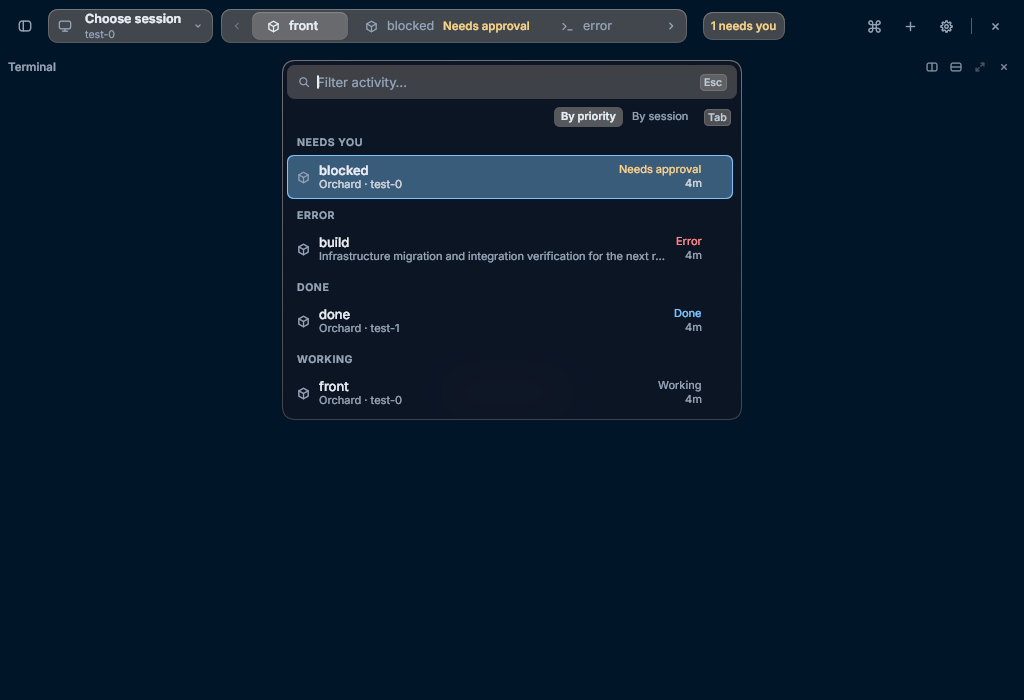
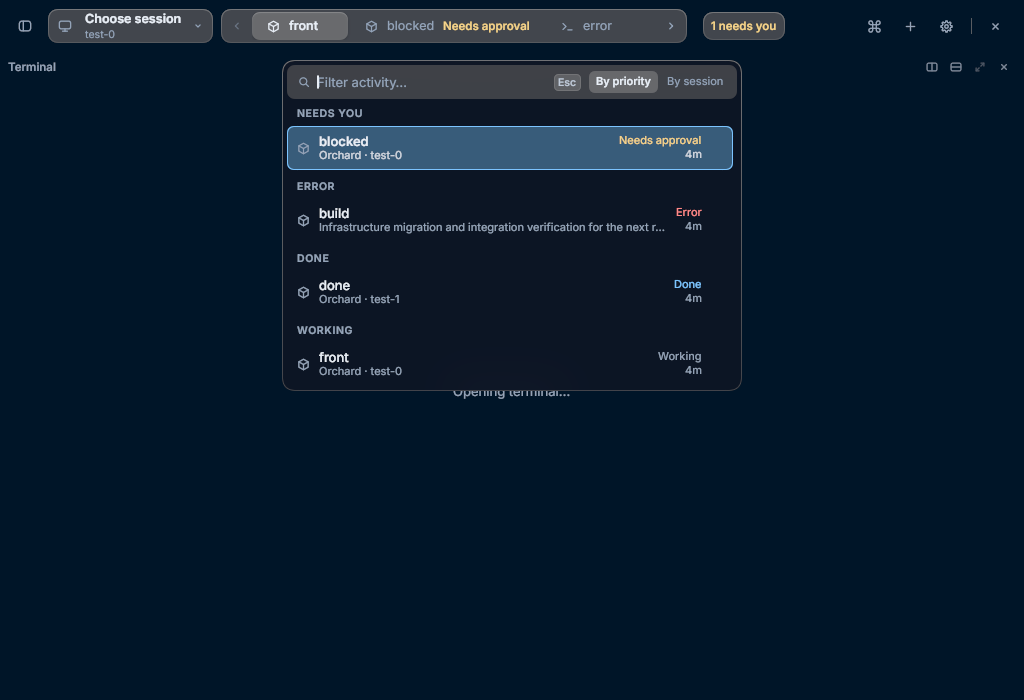
Put the grouping beside the filter; only plain Tab switches it; review fixes

Changed region(s): [[0.2812, 0.09, 0.7188, 0.6], [0.4375, 0.54, 0.5625, 0.57]]

diff --git a/src/app/popups.rs b/src/app/popups.rs
@@ -165,6 +165,60 @@ pub fn target_outline(s: &Workspace) -> Option<El> {
     )
 }
 
+/// The Activity list's grouping, as two small text choices: the current one marked, the
+/// other a press away. Tab switches them from the filter, and a press never takes its focus.
+fn activity_view(s: &Workspace) -> El {
+    use rex_rune::settings::ActivityView;
+    let view = s.settings.activity_view;
+    let choice = |key: &str, label: &str, target: ActivityView| {
+        let on = view == target;
+        let mut cell = row()
+            .key(key.to_owned())
+            .role("radio")
+            .label(label.to_owned())
+            .help(format!("{label} · Tab"))
+            .focus_selected(on)
+            .h(22.)
+            .px(7.)
+            .center()
+            .radius(6.)
+            .continuous_corners()
+            .hover_group()
+            .preserve_focus_on_press(true)
+            .tab_index(-1)
+            .on_press_tx(move |s: &mut Workspace, tx: &mut Tx| {
+                s.set_activity_view(target);
+                tx.instant();
+            });
+        let mut word = text(label.to_owned())
+            .font(if on { medium(11.) } else { ui(11.) })
+            .color(rgb(if on { ink() } else { muted() }));
+        if on {
+            cell = cell.fill(white(0.09));
+        } else {
+            word = word.group_color(rgb(ink()));
+            cell = cell.cursor(rune::Cursor::Pointer).hover(white(0.05));
+        }
+        cell.child(word)
+    };
+    row()
+        .key("activity-view")
+        .role("radiogroup")
+        .label("Group activity")
+        .gap(2.)
+        .mr(4.)
+        .child(choice(
+            "activity-view-priority",
+            "By priority",
+            ActivityView::Priority,
+        ))
+        .child(choice(
+            "activity-view-session",
+            "By session",
+            ActivityView::Session,
+        ))
+}
+
 pub fn list_popup(s: &Workspace, viewport: [f32; 2]) -> El {
     let k = kit();
     let panel = s.panel.as_ref().expect("list panel");
@@ -611,82 +665,23 @@ pub fn list_popup(s: &Workspace, viewport: [f32; 2]) -> El {
                         .width(None)
                         .build(k)
                         .key("popup-search")
-                        .w_full(),
-                ),
+                        .grow(1.)
+                        .shrink()
+                        .min_w(0.),
+                )
+                // Activity's grouping sits at the end of its filter row, so the coverage
+                // line under it keeps the whole width for what it has to say.
+                .children(activity.then(|| activity_view(s))),
         );
     }
-    if activity {
-        // One line under the filter: what the list may be missing, and how it is grouped.
-        // It is always there now (it used to appear only with something to say), so the
-        // rows start 28 pt lower when coverage is complete; the list's height budget
-        // already allowed for it.
-        let coverage = s.activity_coverage();
-        let view = s.settings.activity_view;
-        let choice = |key: &str, label: &str, target: rex_rune::settings::ActivityView| {
-            let on = view == target;
-            let mut cell = row()
-                .key(key.to_owned())
-                .role("radio")
-                .label(label.to_owned())
-                .focus_selected(on)
-                .h(20.)
-                .px(7.)
-                .center()
-                .radius(6.)
-                .continuous_corners()
-                .hover_group()
-                .preserve_focus_on_press(true)
-                .tab_index(-1)
-                .on_press_tx(move |s: &mut Workspace, tx: &mut Tx| {
-                    s.set_activity_view(target);
-                    tx.instant();
-                });
-            let mut word = text(label.to_owned())
-                .font(if on { medium(11.) } else { ui(11.) })
-                .color(rgb(if on { ink() } else { muted() }));
-            if on {
-                cell = cell.fill(white(0.09));
-            } else {
-                word = word.group_color(rgb(ink()));
-                cell = cell.cursor(rune::Cursor::Pointer).hover(white(0.05));
-            }
-            cell.child(word)
-        };
+    let coverage = s.activity_coverage();
+    if activity && !coverage.is_empty() {
         surface = surface.child(
             row()
-                .key("activity-line")
                 .h(28.)
-                .pl(10.)
-                .pr(6.)
-                .gap(8.)
+                .px(10.)
                 .center_y()
-                .child(
-                    text(coverage.clone())
-                        .font(ui(11.))
-                        .color(rgb(muted()))
-                        .truncate()
-                        .help_when_truncated(coverage)
-                        .grow(1.)
-                        .shrink(),
-                )
-                .child(
-                    row()
-                        .key("activity-view")
-                        .role("radiogroup")
-                        .label("Group activity")
-                        .gap(2.)
-                        .child(choice(
-                            "activity-view-priority",
-                            "By priority",
-                            rex_rune::settings::ActivityView::Priority,
-                        ))
-                        .child(choice(
-                            "activity-view-session",
-                            "By session",
-                            rex_rune::settings::ActivityView::Session,
-                        )),
-                )
-                .child(keycap("Tab", false).help("Switch between the two")),
+                .child(text(coverage).font(ui(11.)).color(rgb(muted())).truncate()),
         );
     }
     let mut results = el().w_full().min_h(0.).child(scroller);

diff --git a/src/app/activity_list_tests.rs b/src/app/activity_list_tests.rs
@@ -494,8 +494,82 @@ fn the_switch_in_the_list_shows_the_view_and_a_press_changes_it_without_leaving_
         rx.iter().all(|r| r.is_empty()),
         "a local choice sends nothing"
     );
-    assert!(has(&rt, "activity-line"));
+    // The choices are beside the filter, so the coverage line under it keeps its width.
+    let field = super::pane_verb_tests::rect(&rt, "popup-search");
+    let choices = super::pane_verb_tests::rect(&rt, "activity-view");
+    assert!(
+        choices[0] >= field[0] + field[2] - 0.5 && (choices[1] - field[1]).abs() < 12.,
+        "field {field:?}, choices {choices:?}"
+    );
     std::fs::remove_file(&rt.state.settings_path).unwrap();
+}
+
+#[test]
+fn ctrl_tab_falls_through_the_list_without_changing_the_grouping() {
+    let _families = rune::text::with_families("Inter", "Inter");
+    let (mut ws, _rx) = fixture();
+    ws.show_activity();
+    let mut rt = runtime(ws);
+    settle(&mut rt);
+    for shift in [false, true] {
+        rt.key(KeyEvent {
+            key: Key::Tab,
+            mods: Mods {
+                ctrl: true,
+                cmd: true,
+                shift,
+                ..Default::default()
+            },
+        });
+        settle(&mut rt);
+        assert_eq!(rt.state.settings.activity_view, ActivityView::Priority);
+    }
+    assert!(!rt.state.settings_path.exists(), "and nothing was saved");
+}
+
+#[test]
+fn a_session_is_placed_by_the_most_pressing_row_the_filter_leaves_it() {
+    let (mut ws, _rx) = fixture();
+    ws.settings.activity_view = ActivityView::Session;
+    let groups = |ws: &Workspace, query: &str| {
+        let mut seen: Vec<String> = Vec::new();
+        for entry in ws.activity_entries_at(query, std::time::Instant::now()) {
+            let key = entry.group_key.clone().expect("a session heading");
+            if seen.last() != Some(&key) {
+                seen.push(key);
+            }
+        }
+        seen
+    };
+    // Unfiltered, a session with a tab that needs you comes before one that is only working.
+    let all = groups(&ws, "");
+    let needs = all
+        .iter()
+        .position(|k| k == "activity:0:s")
+        .expect("host 0's session s");
+    let working = all
+        .iter()
+        .position(|k| k == "activity:0:other")
+        .expect("host 0's session other");
+    assert!(needs < working, "{all:?}");
+    // Filtered to working tabs, session s has only its working row left and ranks with it:
+    // it no longer goes first because of rows the filter took away.
+    let filtered = groups(&ws, "working");
+    assert_eq!(
+        filtered,
+        [
+            "activity:0:s",
+            "activity:0:other",
+            "activity:1:s",
+            "activity:1:other"
+        ],
+        "host and session order among equals"
+    );
+    let rows = ws.activity_entries_at("working", std::time::Instant::now());
+    assert!(
+        rows.iter().all(|e| e.detail == "Working"),
+        "only working rows remain"
+    );
 }
 
 #[test]

diff --git a/src/app/input.rs b/src/app/input.rs
@@ -244,8 +244,12 @@ pub fn list_key(s: &mut Workspace, ev: &KeyEvent, tx: &mut Tx) -> bool {
                 .as_ref()
                 .is_some_and(|p| matches!(p.kind, PanelKind::Activity))
             {
-                s.toggle_activity_view();
-                tx.instant();
+                // Plain Tab or Shift Tab only: Ctrl Tab is the next tab across sessions,
+                // and must not rearrange a list it merely fell through to.
+                if !(ev.mods.ctrl || ev.mods.cmd || ev.mods.alt || ev.mods.logo) {
+                    s.toggle_activity_view();
+                    tx.instant();
+                }
             } else if !ev.mods.shift {
                 s.descend_directory();
             }

diff --git a/src/app/actions.rs b/src/app/actions.rs
@@ -883,8 +883,11 @@ pub fn binding_title(binding: &rexrs::api::client::Binding) -> String {
             .replace('_', " ")
     };
     match binding.action.as_str() {
-        "client.activity" if args["view"].as_str().is_some() => {
-            format!("Show activity by {}", args["view"].as_str().unwrap())
+        "client.activity" if matches!(args["view"].as_str(), Some("priority" | "session")) => {
+            format!(
+                "Show activity by {}",
+                args["view"].as_str().unwrap_or_default()
+            )
         }
         "pane.split" => format!("Split {}", direction()),
         "pane.focus" => format!("Focus pane {}", direction()),

diff --git a/DESIGN.md b/DESIGN.md
@@ -74,7 +74,7 @@ Chrome uses Inter (bundled with the kit) in 10–13 pt steps, weights about 450 
 - **Insert path:** Commands → Insert path… opens a 460 pt list near the top, using the standard list field with a folder glyph (a magnifying glass marks search fields only), 28 pt rows, selection outline and captured-pane cue. Its title names the host; the first row inserts the typed path, followed by case-insensitively sorted children with plain Folder/File details. Hidden names appear only with a dot prefix. Up/Down select, Enter or a click inserts once; Tab descends a selected folder (single-field lists already consume Tab), Shift-Tab stays put and Right remains text editing. Escape/outside press closes and returns terminal focus. Inline words report loading, failures and truncated listings; there is no keyboard-hint footer or status dot. Home paths display as `~` and insert as absolute POSIX-shell-quoted paths with no Enter or trailing space. Browsing never claims a pane or sends terminal input. `pane.insert_path` is unbound by default; Commands and Shortcuts use the effective keymap. [Scope and checks](docs/parity-2026-11/M3.1-insert-path.md).
 - **Go to directory:** Commands → Go to directory… is the Insert path popup over folders only: the same field with a folder glyph, rows, selection, Tab descent, captured-pane cue and inline messages, titled “Go to directory · <host>”, its first row “Go to typed folder”. Choosing a row types `cd <quoted absolute folder>` and stops; nothing is run and Enter is never sent, because the prompt's existing text is not visible to the client. `pane.go_to_directory` is unbound by default. [Scope and checks](docs/parity-2026-11/M3.1-go-to-directory.md).
 - **Add host list:** each of its groups (Rex servers, Tailnet, Offline) has an icon before its label. A machine's row is columns that line up down the list: its name, which stays whole and is cut only past the room the other columns need; what the machine calls itself, when that differs, which fades out first; what the check found, ending at one x and cut with an ellipsis (its tooltip has the whole text), trouble such as "Rex check failed" in `WARNING` and first; its system in a 52 pt column; and the chevron. A machine that is already added has an "Added" chip in a column of its own, kept only while the list has one, with the saved hosts' names as its tooltip, and no check mark before its name. Rows under Offline don't repeat the word.
-- **Activity:** Show activity… in Commands opens the shared 460 pt list popup (clamped to the viewport), with a magnifier/filter (matching tab, session, host and state) and one quiet 28 pt line under it. At its left is coverage, only when there is something to say: “Reading activity…” during the per-connection status pass, then “Some activity could not be read.” if reads failed. At its right, always, is the grouping: **By priority** and **By session** as two small text choices (11 pt; the current one `INK` on a 9% white rounded fill, the other `MUTED`, lighting under the pointer) and a `Tab` keycap, since Tab switches them from the filter. Pressing a choice never takes focus from the filter. “1 host is not connected.” (or the plural count) precedes that line while saved hosts are offline, connecting or reconnecting. The connection reads every session once, selected first and the rest paced; new sessions/panes join once. No cap or polling. Queried reports never notify, mark anything seen or latch Done. A clean pass covers unopened sessions, not changes whose live events failed to reach the client; mute and chip visibility rules still apply. By priority, group headings order Needs you, Error, Done, Working; within each, host/session/tab order stays stable. By session, the same filtered rows group under `<session> · <host>` (both names keep their case), sessions ordered by their most pressing remaining row then host/session order, rows within them by priority then server tab order. The redundant place line is omitted in that view, retaining the 44 pt row and trailing state/time. Plain Show activity and the chip remember the view; explicit Commands rows use `client.activity` with optional `view: priority/session`. Popup-local Tab (or Shift-Tab) switches without losing filter text, field focus or the selected tab; no terminal shortcut is reserved. [By-session scope](docs/parity-2026-11/M3.2-activity-by-session.md). Rows are 44 pt: the focused program's existing monochrome glyph, the pill's title above `<session> · <host>`, and a trailing state word (`WARNING` for Needs you, `DANGER` for Error, `ACCENT` for unseen Done, `MUTED` for Working). When known, an 11 pt `MUTED` elapsed label sits below the trailing state word, right-aligned to its existing edge: `now`, `4m`, `2h`, `3d`. Read-back baselines explicitly say `reported 4m`, since the server updates its timestamp on every report. Rows without a known time retain the original single state word and geometry. Only the open list redraws about once a minute, with no animation, status reads or read receipts. [Time meaning and checks](docs/parity-2026-11/M3.2-elapsed-time.md). The on-screen tab is included when working, blocked or in error; muted and idle tabs are absent. The empty list says “Nothing needs you.”; a filter with no hits says “No matching activity.” Seeing a row is not a read receipt. Selection follows the tab across live group changes; Enter/click uses notification navigation and Escape restores pane input. No always-present toolbar button or default key: the conditional Activity chip is another entry point, not a read receipt; opened from it, the list starts on the first tab that is not the one in front. [List evidence](docs/parity-2026-11/M3.2-activity-list.md); [chip scope and evidence](docs/parity-2026-11/M3.2-activity-chip.md).
+- **Activity:** Show activity… in Commands opens the shared 460 pt list popup (clamped to the viewport), with a magnifier/filter (matching tab, session, host and state) with the grouping at the end of the filter row: **By priority** and **By session** as two small text choices (11 pt; the current one `INK` on a 9% white rounded fill, the other `MUTED`, lighting under the pointer). Tab switches them from the filter, and pressing a choice never takes the filter's focus. Under the row is a quiet coverage line only when needed: “Reading activity…” during the per-connection status pass, then “Some activity could not be read.” if reads failed, otherwise no line or reserved space. “1 host is not connected.” (or the plural count) precedes that line while saved hosts are offline, connecting or reconnecting. The connection reads every session once, selected first and the rest paced; new sessions/panes join once. No cap or polling. Queried reports never notify, mark anything seen or latch Done. A clean pass covers unopened sessions, not changes whose live events failed to reach the client; mute and chip visibility rules still apply. By priority, group headings order Needs you, Error, Done, Working; within each, host/session/tab order stays stable. By session, the same filtered rows group under `<session> · <host>` (both names keep their case), sessions ordered by their most pressing remaining row then host/session order, rows within them by priority then server tab order. The redundant place line is omitted in that view, retaining the 44 pt row and trailing state/time. Plain Show activity and the chip remember the view; explicit Commands rows use `client.activity` with optional `view: priority/session`. Popup-local Tab (or Shift-Tab) switches without losing filter text, field focus or the selected tab; no terminal shortcut is reserved. [By-session scope](docs/parity-2026-11/M3.2-activity-by-session.md). Rows are 44 pt: the focused program's existing monochrome glyph, the pill's title above `<session> · <host>`, and a trailing state word (`WARNING` for Needs you, `DANGER` for Error, `ACCENT` for unseen Done, `MUTED` for Working). When known, an 11 pt `MUTED` elapsed label sits below the trailing state word, right-aligned to its existing edge: `now`, `4m`, `2h`, `3d`. Read-back baselines explicitly say `reported 4m`, since the server updates its timestamp on every report. Rows without a known time retain the original single state word and geometry. Only the open list redraws about once a minute, with no animation, status reads or read receipts. [Time meaning and checks](docs/parity-2026-11/M3.2-elapsed-time.md). The on-screen tab is included when working, blocked or in error; muted and idle tabs are absent. The empty list says “Nothing needs you.”; a filter with no hits says “No matching activity.” Seeing a row is not a read receipt. Selection follows the tab across live group changes; Enter/click uses notification navigation and Escape restores pane input. No always-present toolbar button or default key: the conditional Activity chip is another entry point, not a read receipt; opened from it, the list starts on the first tab that is not the one in front. [List evidence](docs/parity-2026-11/M3.2-activity-list.md); [chip scope and evidence](docs/parity-2026-11/M3.2-activity-chip.md).
 - **Dialogs** (forms, confirmation) are centered over a dark scrim and sized to their content within the viewport. The Download dialog is one of them: a field for the file on the host, the folder it is saved in with **Change**, and errors before any bytes in `DANGER` (Rex's own words as they came; the client's own as sentences). Text with no break opportunity, such as a 255-byte name, wraps inside the word and is cut with an ellipsis after a few lines, never past the dialog's edge; a host whose Rex is too old says so in `WARNING` and offers only **Close**; a large file or low space asks in the dialog with **Cancel** focused (a plain button with the focus ring, as **Keep running** is) and **Download** tinted `WARNING` like the close confirmation's danger button, never the accent gradient: the question says what a yes means ("build.img is 3.2 GB. ~/Downloads has 41 GB free.", or for low space "…has 400 MB free, so saving it leaves about 100 MB."). Folders in the dialog, the popover and notices are written with `~` for the home folder and, past about 36 characters, cut in the middle by whole folders (`~/…/reports/final`); the full path is the tooltip and accessible name. **Settings** is a larger dialog (816×680, clamped to 92% of the viewport's width and to what is left under the toolbar with 12 pt clear at both ends, so the toolbar stays whole above it at every window size and interface zoom; the same size on every section) with a 204 pt section list on the left, in gapped groups, and the section's page on the right. Forms and confirmations opened from Settings return to it. A form's secondary action sits at the left of its button row, apart from Cancel and the primary button: Rename tab offers **Use default title** there, only for a tab the user named.
 - **Settings navigation:** Search Settings sits above the sidebar, aligned with the page header. The section order is Server; Interface; Terminal, Shortcuts, Integrations, Notifications, Remote Hosts; Updates, About, with gaps between those groups. Each row has an authored 20 pt glyph in a 22 pt tile, accented for the current section. Typing on the section list starts a search; Up/Down selects a result, Enter opens it, and Escape clears the search before closing. Results replace the section list and name the containing page; a setting result scrolls into view and is marked for 2.4 seconds with `SELECTION` behind its content, its helper in `INK` while marked. Back/Forward beside the page title are disabled at history's ends; Alt+Left/Right and mouse Back/Forward use the same dialog-local history and restore page scroll. Opening Settings anew clears its search and history. Shortcuts retains its separate pinned filter and its first Escape clears that filter. Forms and popups stay outside this page history.
 - **Settings pages** are built only from the blocks in `src/app/settings_kit.rs`, so every page has one rhythm:

diff --git a/docs/parity-2026-11/M3.2-activity-by-session.md b/docs/parity-2026-11/M3.2-activity-by-session.md
@@ -150,22 +150,44 @@ separate work and no product-context migration was made.
 
 ## Parent changes (merged with master at `6ac01fc`)
 
-- **The visible switch.** Under the filter, the popup's one quiet line now always
-  exists: coverage at its left when there is something to say, and at its right **By
-  priority** and **By session** with a `Tab` keycap. The current choice is marked;
-  pressing the other switches, keeps the selected tab, the filter text and the
-  filter's focus, and saves the choice. It sends nothing.
-- **What this changes for the by-priority view.** That line used to appear only with
-  a coverage message. It is now always there, so with complete coverage the rows start
-  28 pt lower than before; with a coverage message they are where they were and the
-  line gains the two choices. The rows themselves, their order and everything they do
-  are unchanged. The delegate's byte-identical result holds for its commit, not for
-  this one.
+- **The visible switch.** **By priority** and **By session** sit at the end of the
+  filter row, with the current one marked. Pressing the other switches, keeps the
+  selected tab, the filter text and the filter's focus, and saves the choice. It sends
+  nothing. Tab still does the same from the keyboard.
+- **What this changes for the by-priority view.** Only the filter row: the field is
+  narrower by the width of the two choices. The coverage line under it is as it was
+  (present only with something to say, the full width of the popup), and the rows,
+  their order and everything they do are unchanged. The delegate's byte-identical
+  result holds for its commit, not for this one.
 - `the_switch_in_the_list_shows_the_view_and_a_press_changes_it_without_leaving_the_filter`
   covers the marking, a press on each choice, persistence, the kept selection, filter
-  and focus, typing afterwards, and no host command.
+  and focus, typing afterwards, the choices' place beside the field, and no host
+  command.
 - The delegate posted its question about the brief to the decision queue. That was
   withdrawn; the answer is the control above.
 
-Re-run by the parent after these changes: `cargo fmt --all -- --check`; `TMPDIR=/var/tmp cargo test --locked --all-features` **1085 passed, 0 failed, 6 ignored**; strict clippy; release build; `scripts/activity-list-x11.py` passed on a private server.
+## Review (Cursor-pool Opus, on `339d76e`)
 
+Approved after one change. At that commit the switch was on the coverage line, which
+left too little room: "2 hosts are not connected. Some activity could not be read." was
+cut off, losing exactly the part that says the list is incomplete. The switch moved to
+the filter row, so the coverage line has its width back.
+
+Also from it:
+
+- Ctrl Tab (next tab across sessions) fell through to the list's Tab branch and
+  switched and saved the grouping. Only plain Tab and Shift Tab switch now
+  (`ctrl_tab_falls_through_the_list_without_changing_the_grouping`).
+- A bound `client.activity` with an unknown `view` no longer gets a made-up title.
+- New test `a_session_is_placed_by_the_most_pressing_row_the_filter_leaves_it`: a
+  session ranks by the rows the filter leaves, not by rows it took away.
+
+Left: `activity_tabs` could pass the session's index through instead of looking it up
+again; the two Commands rows do not share Show activity's search keywords; no test pins
+that the Shortcuts page's argument column is unchanged for the other actions it covers.
+
+Captures: [by priority](images/activity-by-priority.png), [by session](images/activity-by-session.png).
+
+After these changes: `cargo fmt --all -- --check`; `TMPDIR=/var/tmp cargo test --locked
+--all-features` **1087 passed, 0 failed, 6 ignored**; strict clippy; release build;
+`scripts/activity-list-x11.py` passed on a private server.

diff --git a/CHANGELOG.md b/CHANGELOG.md
@@ -22,7 +22,7 @@
 
 ### Added
 
-- **Activity by session (partial M3.2):** see each project's tabs together under session and host headings, ordered by what needs attention first. The list shows the choice, **By priority** or **By session**, on a line under its filter; press either, or Tab while filtering, and the selected tab and the filter are kept. Commands has a row for each view. The choice is remembered across launches, including when opening from the toolbar chip. Browsing remains local and marks nothing seen. See [ordering and checks](docs/parity-2026-11/M3.2-activity-by-session.md).
+- **Activity by session (partial M3.2):** see each project's tabs together under session and host headings, ordered by what needs attention first. The list shows the choice, **By priority** or **By session**, at the end of its filter row; press either, or Tab while filtering, and the selected tab and the filter are kept. Commands has a row for each view. The choice is remembered across launches, including when opening from the toolbar chip. Browsing remains local and marks nothing seen. See [ordering and checks](docs/parity-2026-11/M3.2-activity-by-session.md).
 
 - **Pair device (partial M3.3):** Settings → Server and Commands can show a QR code of the connected host's sanitized, last-reported Tailscale HTTPS address. Local-only, no server requests; the exact address stays visible, and an overlong address falls back to text. Encoder matrices and rendered captures are independently checked; phone acceptance is not yet verified. See [checks and limits](docs/parity-2026-11/M3.3-pair-device.md).
 
